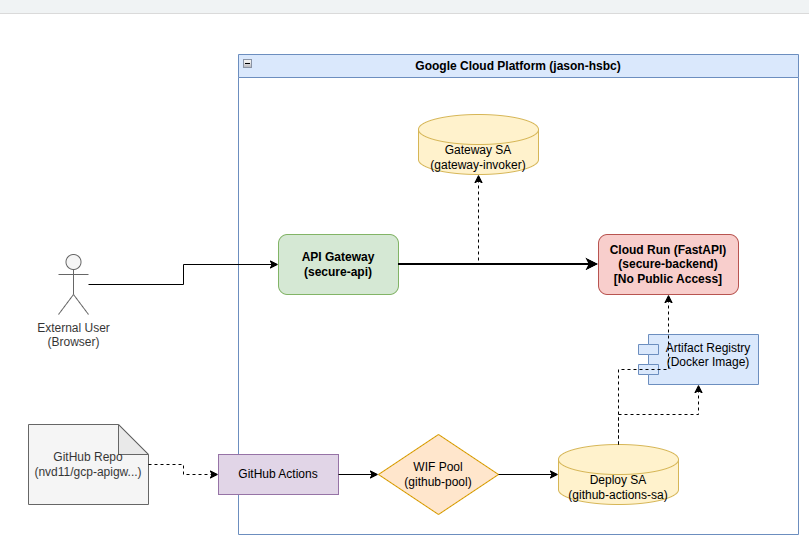
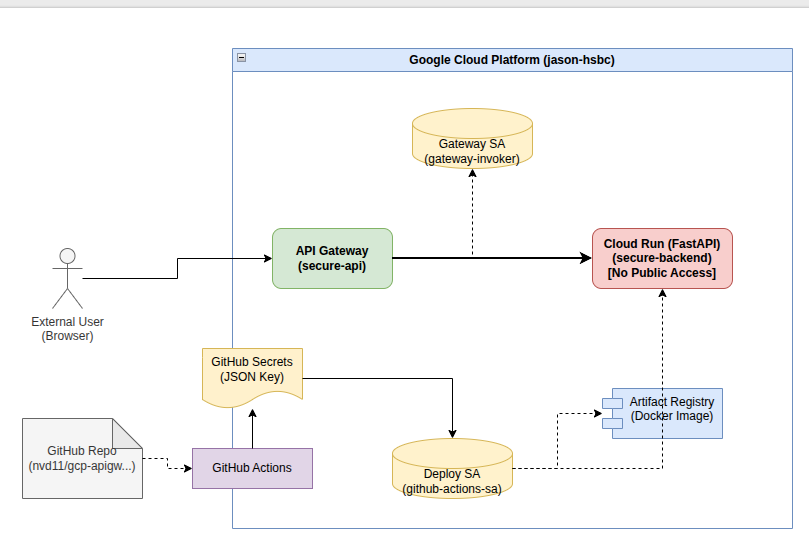
docs: update architecture diagram and documentation to reflect JSON key approach

diff --git a/docs/ARCHITECTURE.md b/docs/ARCHITECTURE.md
@@ -13,11 +13,12 @@ Route external traffic through GCP API Gateway to a securely locked Cloud Run se
 - **Gateway SA (`gateway-invoker`)**: The Gateway acts as this Service Account to automatically fetch a fresh OIDC Identity Token from GCP IAM.
 - **Cloud Run (`secure-backend`)**: Receives the request with the `Authorization: Bearer <token>` header appended. It validates the token and serves the FastAPI Web UI.
 
-### 2. Control Plane (CI/CD Flow)
+### 2. Control Plane (CI/CD Flow - JSON Key Based)
 - **GitHub Repo**: Houses the FastAPI code and GitHub Actions workflow (`deploy.yml`).
 - **GitHub Actions**: Triggers on code push.
-- **WIF Pool (`github-pool`)**: Verifies the incoming OIDC token from GitHub Actions without needing a static JSON key.
-- **Deploy SA (`github-actions-sa`)**: GitHub Actions impersonates this SA to gain temporary, elevated permissions in the GCP project.
+- **GitHub Secrets (JSON Key)**: Securely stores the `credentials.json` of the deployment Service Account.
+- **Deploy SA (`github-actions-sa`)**: GitHub Actions authenticates as this Service Account using the JSON key to gain deployment permissions in the GCP project.
+  - *Note on Least Privilege*: This Deploy SA can only impersonate the specific Cloud Run runtime SA (`cr-webui-runtime-sa`), preventing broader project-level abuse.
 - **Artifact Registry**: Receives the newly built Docker image (`docker push`).
 - **Cloud Run**: Receives the deployment command (`gcloud run deploy`) to pull the image and restart the service.
 
@@ -28,4 +29,5 @@ Route external traffic through GCP API Gateway to a securely locked Cloud Run se
 - **Cloud Run**: `secure-backend` (FastAPI)
 - **Service Accounts**: 
   - `gateway-invoker` (Role: `run.invoker`)
-  - `github-actions-sa` (Roles: `run.admin`, `artifactregistry.writer`, `iam.serviceAccountUser`)
+  - `github-actions-sa` (Roles: `run.admin`, `artifactregistry.writer`, `apigateway.admin`, `iam.serviceAccountUser` on `cr-webui-runtime-sa`)
+  - `cr-webui-runtime-sa` (Runtime identity for the Cloud Run container)